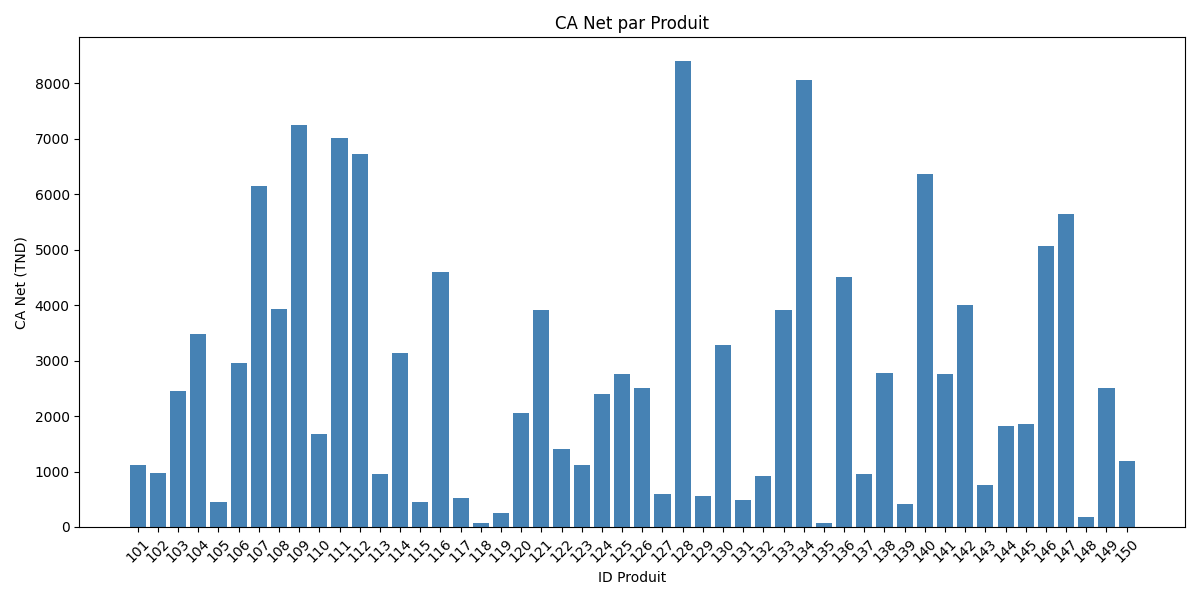
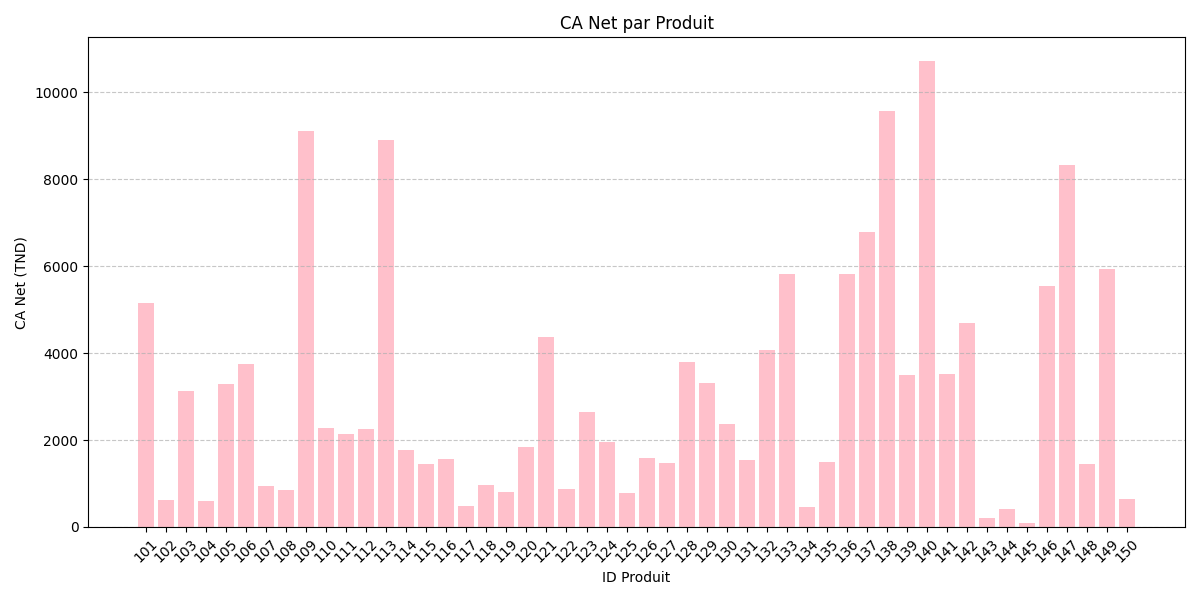
add grid lines

diff --git a/pfa.py b/pfa.py
@@ -53,12 +53,12 @@ print(os.getcwd())
 
 print(df.columns)
 plt.figure(figsize=(12, 6))
-plt.bar(df['ID'].astype(str), df['ca_net'], color='steelblue')
+plt.bar(df['ID'].astype(str), df['ca_net'], color='pink')
 plt.title('CA Net par Produit')
 plt.xlabel('ID Produit')
 plt.ylabel('CA Net (TND)')
 plt.xticks(rotation=45)
+plt.grid(axis='y', linestyle='--', alpha=0.7)
 plt.tight_layout()
 plt.savefig('graphique_CA.png')
 plt.show()
-print("✅ Chart saved!")
